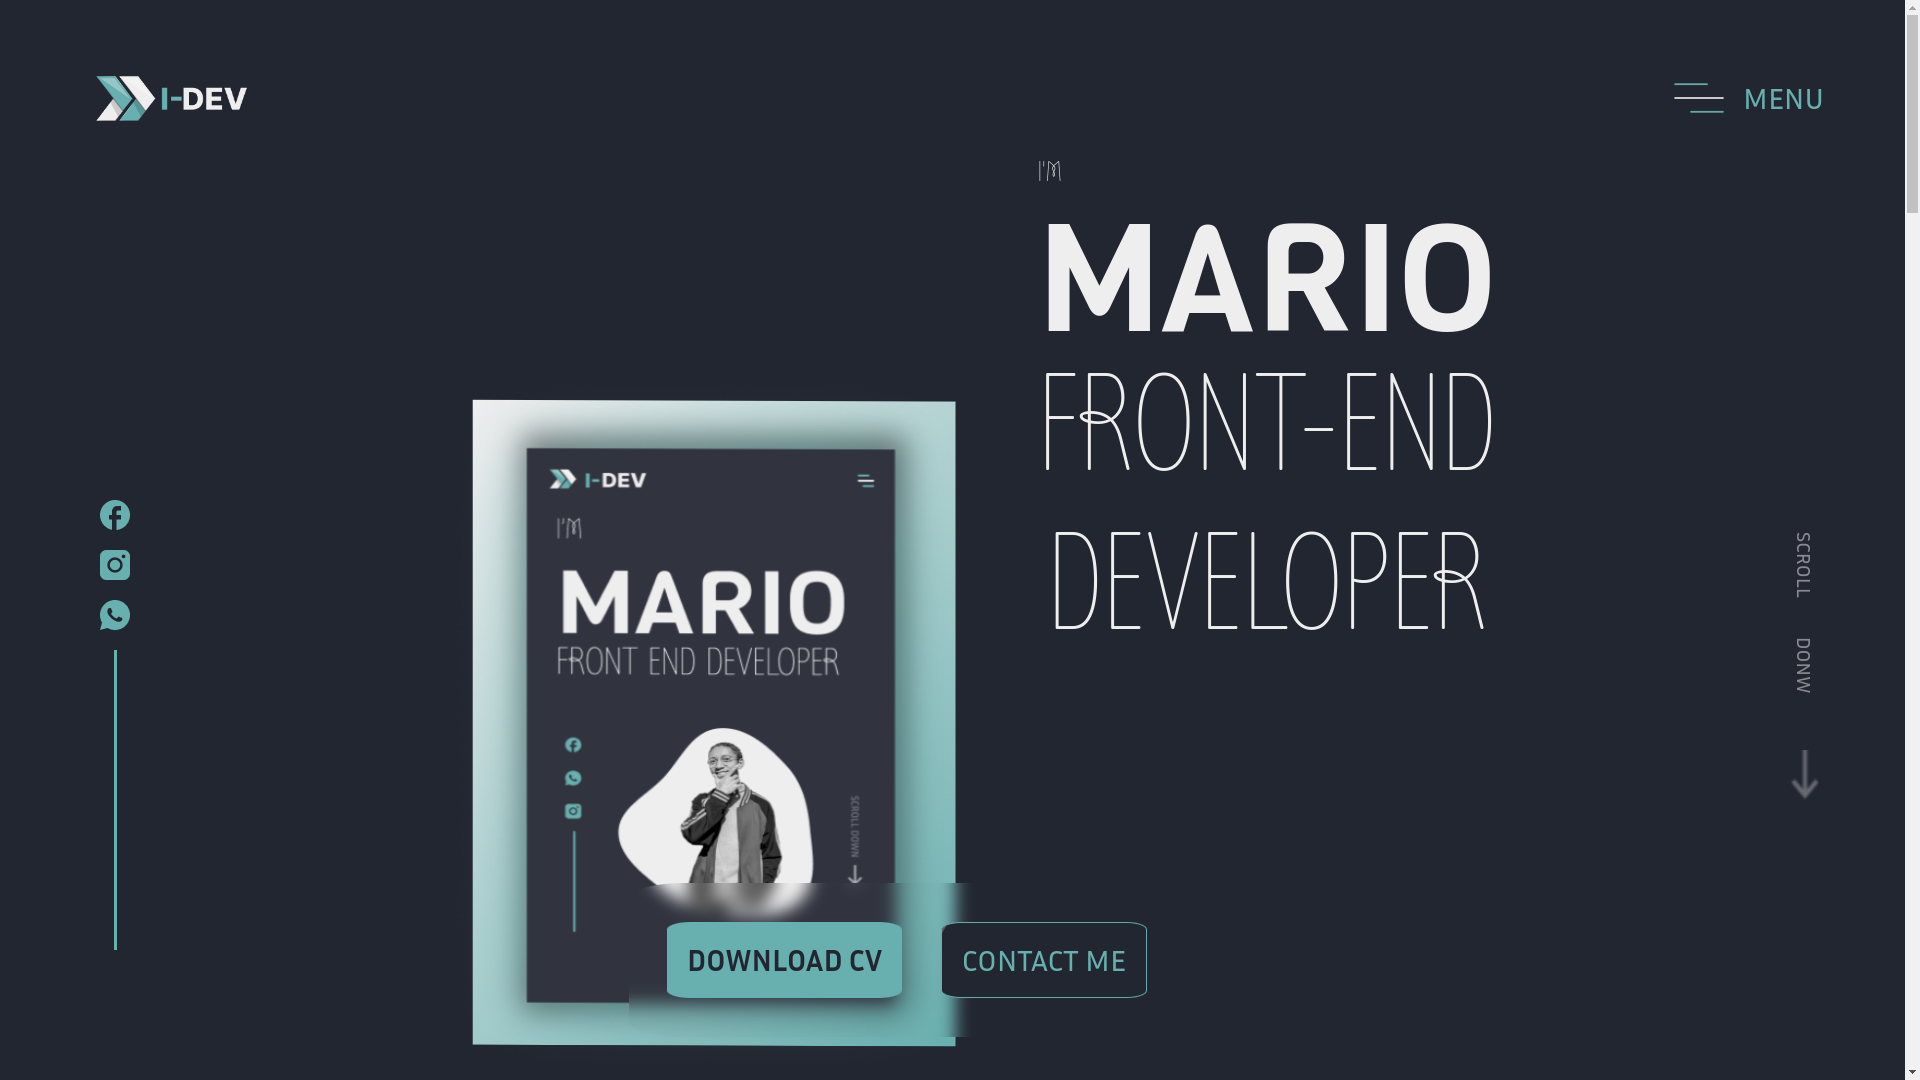
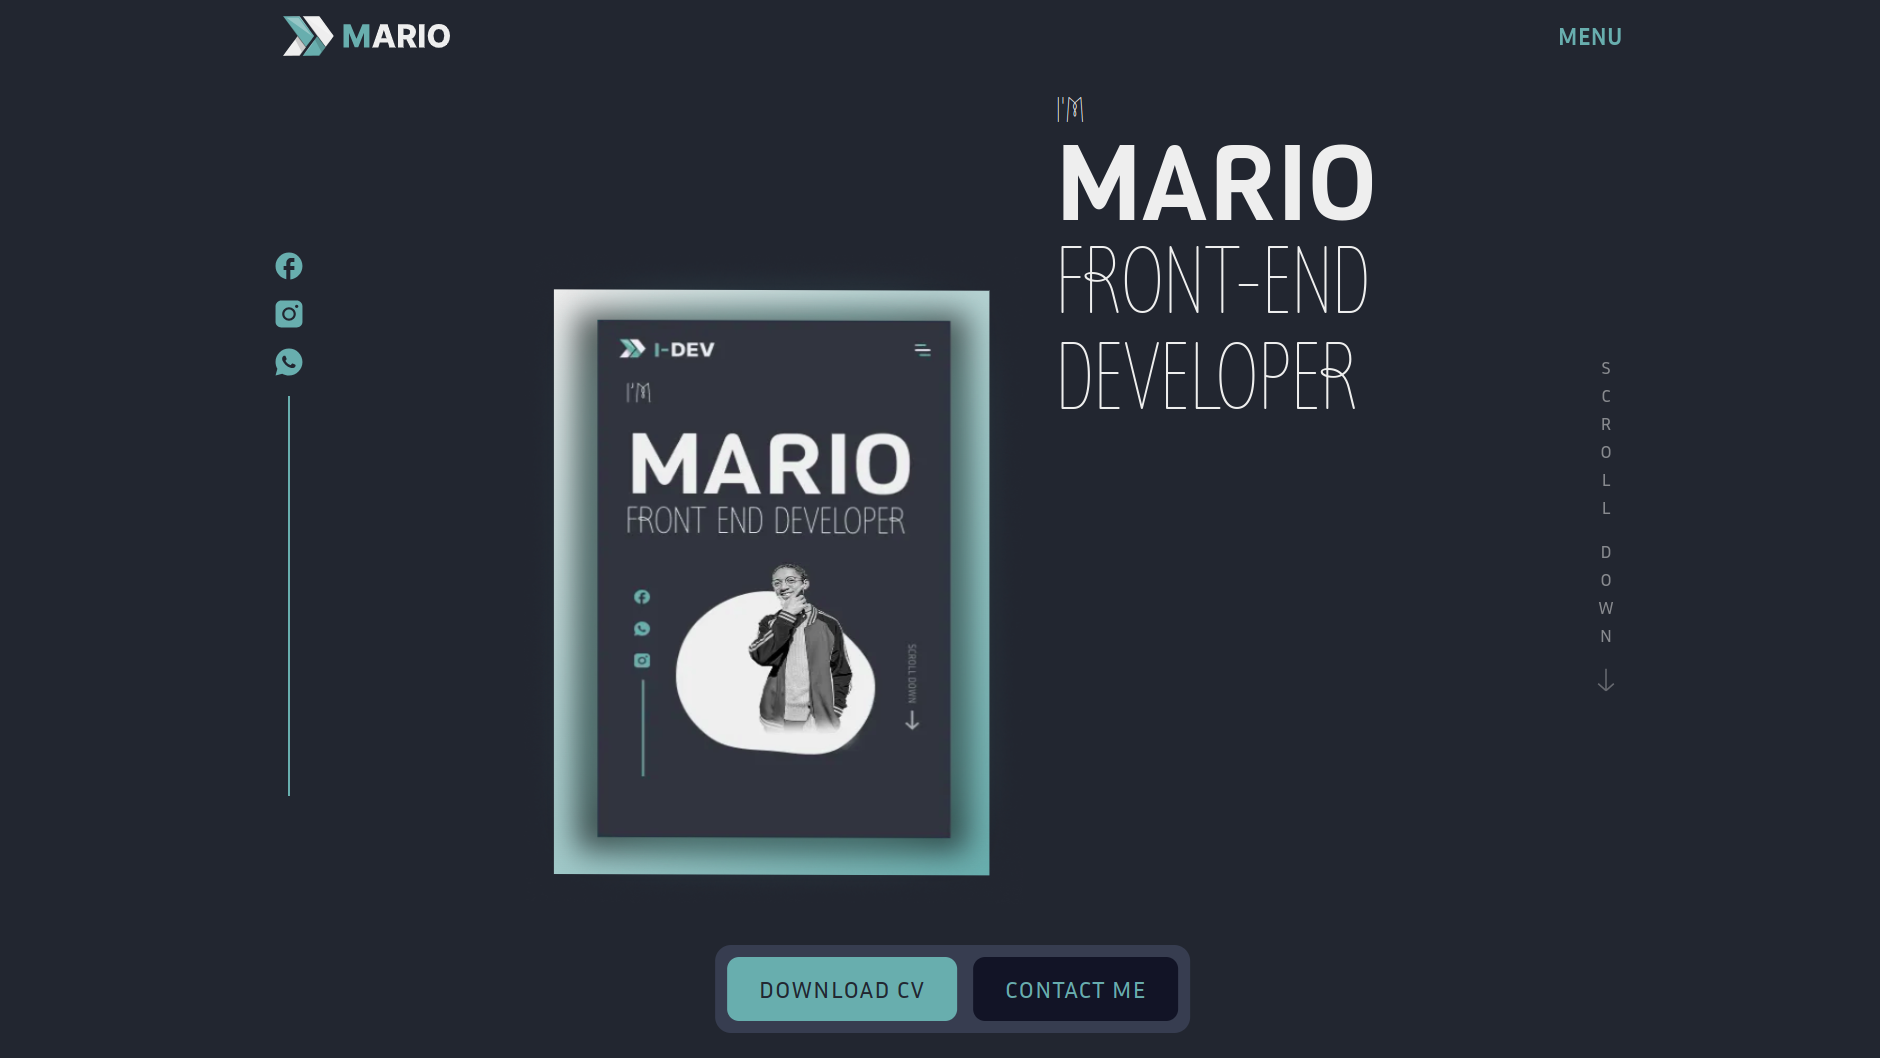
add animation to the hero image on mobile

diff --git a/src/app/sections/home/Home.scss b/src/app/sections/home/Home.scss
@@ -73,15 +73,33 @@ $contrasted: #76abae;
       }
     }
     &__imageOnHero {
-      @apply w-[200px] h-[250px];
+      @apply w-[190px] h-[250px] flex items-center justify-center relative overflow-hidden rounded-[40px];
       @screen md {
-        @apply w-[250px] h-[320px];
+        @apply w-[300px] h-[380px];
       }
       @screen lg {
         @apply hidden;
       }
+      &__background {
+        @apply absolute w-[150%] h-[120%] top-[30%] left-[-20%] bg-neutre rounded-[120px];
+        animation: bg-animation linear infinite 10s;
+        @screen md {
+          @apply rounded-[180px];
+        }
+      }
+      @keyframes bg-animation {
+        from {
+          rotate: 0;
+        }
+        to {
+          rotate: 360deg;
+        }
+      }
       img {
-        @apply w-full h-full;
+        @apply w-[130px] h-[220px] z-[2];
+        @screen md {
+          @apply w-[180px] h-[320px];
+        }
       }
     }
 

diff --git a/src/app/sections/home/Home.tsx b/src/app/sections/home/Home.tsx
@@ -66,11 +66,13 @@ function Home() {
 
         <div className="home-section__center__imageOnHero" >
           <Image
-            src={"/image/heroImageOnMobile2.png"}
+            src={"/image/imageOnHeroMobile.png"}
             alt='profile image'
             width={300}
             height={450}
+            priority
           />
+          <div className='home-section__center__imageOnHero__background' ></div>
         </div>
 
         <div className="home-section__center__big-text">

diff --git a/src/components/fixedButton/fixedButon.tsx b/src/components/fixedButton/fixedButon.tsx
@@ -20,7 +20,7 @@ function FixedButton() {
 
   return (
     <div className={`fixed-button ${showButton ? "hiddenButton" : ""}`}>
-      <a href="/image/developerCV.png" download={"Mario developper CV"}>
+      <a href="/image/developerCV.png" download={"Front-end developer CV"}>
         <Button label='DOWNLOAD CV' variant='contrasted' />
       </a>
       <a href="#contact">
